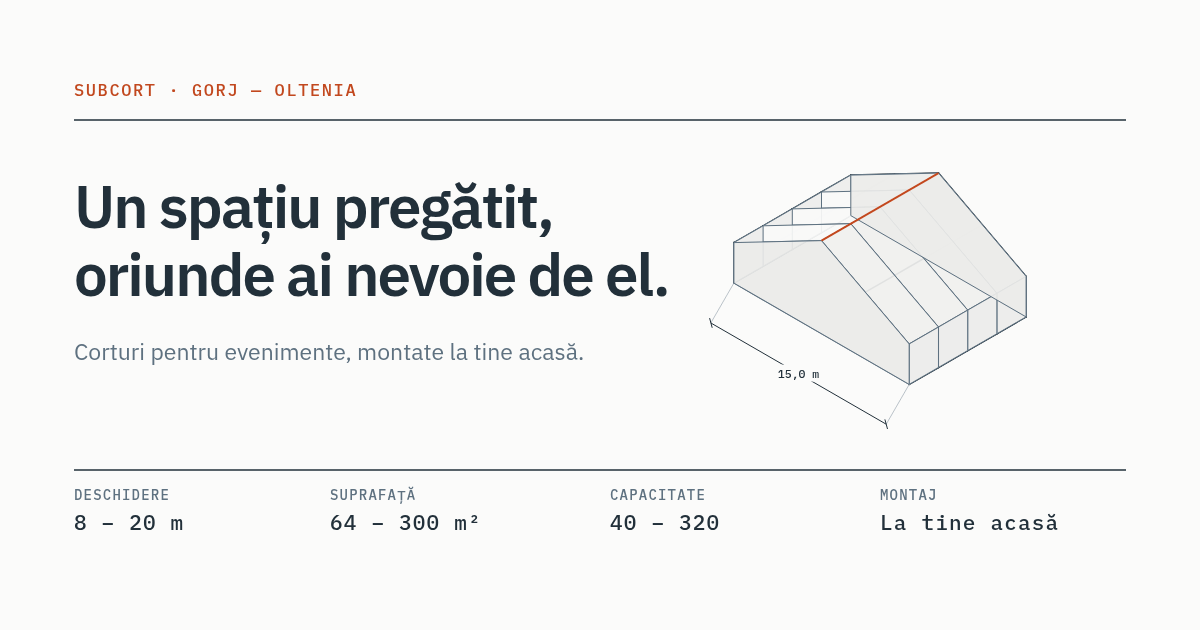
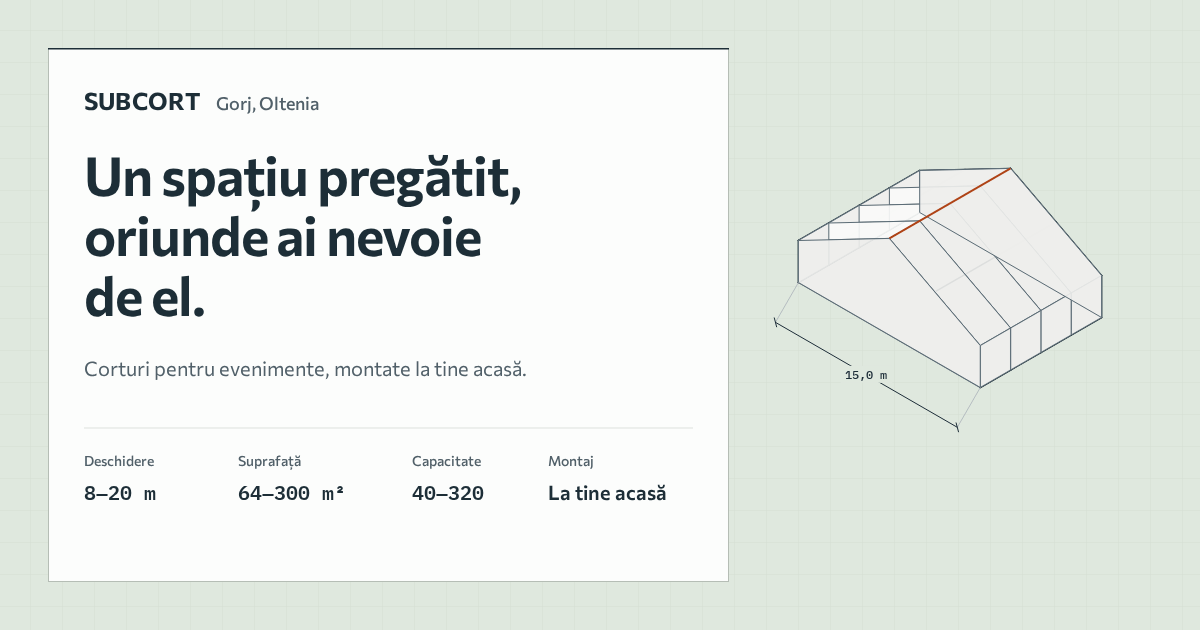
subcort: legal layout on a panel, the OG card regenerated on the new tokens

diff --git a/sites/subcort/scripts/og-card.html b/sites/subcort/scripts/og-card.html
@@ -4,44 +4,59 @@
   SOURCE for public/images/og-image.png. To regenerate: npm run subcort:og
 -->
 <style>
-@font-face{font-family:"IBM Plex Sans";src:url("../../../node_modules/@fontsource-variable/ibm-plex-sans/files/ibm-plex-sans-latin-ext-wght-normal.woff2") format("woff2-variations");font-weight:100 700;unicode-range:U+0100-02BA,U+02BD-02C5,U+02C7-02CC,U+02CE-02D7,U+02DD-02FF,U+0304,U+0308,U+0329,U+1D00-1DBF,U+1E00-1E9F,U+1EF2-1EFF,U+2020,U+20A0-20AB,U+20AD-20C0,U+2113,U+2C60-2C7F,U+A720-A7FF;}
-@font-face{font-family:"IBM Plex Sans";src:url("../../../node_modules/@fontsource-variable/ibm-plex-sans/files/ibm-plex-sans-latin-wght-normal.woff2") format("woff2-variations");font-weight:100 700;}
+@font-face{font-family:"Commissioner Variable";src:url("../../../node_modules/@fontsource-variable/commissioner/files/commissioner-latin-ext-wght-normal.woff2") format("woff2-variations");font-weight:100 900;unicode-range:U+0100-02BA,U+02BD-02C5,U+02C7-02CC,U+02CE-02D7,U+02DD-02FF,U+0304,U+0308,U+0329,U+1D00-1DBF,U+1E00-1E9F,U+1EF2-1EFF,U+2020,U+20A0-20AB,U+20AD-20C0,U+2113,U+2C60-2C7F,U+A720-A7FF;}
+@font-face{font-family:"Commissioner Variable";src:url("../../../node_modules/@fontsource-variable/commissioner/files/commissioner-latin-wght-normal.woff2") format("woff2-variations");font-weight:100 900;}
 @font-face{font-family:"IBM Plex Mono";src:url("../../../node_modules/@fontsource/ibm-plex-mono/files/ibm-plex-mono-latin-ext-500-normal.woff2") format("woff2");font-weight:500;unicode-range:U+0100-02BA,U+02BD-02C5,U+02C7-02CC,U+02CE-02D7,U+02DD-02FF,U+0304,U+0308,U+0329,U+1D00-1DBF,U+1E00-1E9F,U+1EF2-1EFF,U+2020,U+20A0-20AB,U+20AD-20C0,U+2113,U+2C60-2C7F,U+A720-A7FF;}
 @font-face{font-family:"IBM Plex Mono";src:url("../../../node_modules/@fontsource/ibm-plex-mono/files/ibm-plex-mono-latin-500-normal.woff2") format("woff2");font-weight:500;}
+@font-face{font-family:"IBM Plex Mono";src:url("../../../node_modules/@fontsource/ibm-plex-mono/files/ibm-plex-mono-latin-ext-600-normal.woff2") format("woff2");font-weight:600;unicode-range:U+0100-02BA,U+02BD-02C5,U+02C7-02CC,U+02CE-02D7,U+02DD-02FF,U+0304,U+0308,U+0329,U+1D00-1DBF,U+1E00-1E9F,U+1EF2-1EFF,U+2020,U+20A0-20AB,U+20AD-20C0,U+2113,U+2C60-2C7F,U+A720-A7FF;}
+@font-face{font-family:"IBM Plex Mono";src:url("../../../node_modules/@fontsource/ibm-plex-mono/files/ibm-plex-mono-latin-600-normal.woff2") format("woff2");font-weight:600;}
 *{margin:0;padding:0}
 html,body{width:1200px;height:630px;overflow:hidden}
 svg{display:block}
 </style></head><body>
 <svg xmlns="http://www.w3.org/2000/svg" viewBox="0 0 1200 630" width="1200" height="630">
-  <rect width="1200" height="630" fill="#FBFBFA"/>
-  <g font-family="'IBM Plex Mono',monospace" font-size="17" font-weight="500" fill="#C2481E" letter-spacing="1.6">
-    <text x="74" y="96">SUBCORT · GORJ — OLTENIA</text>
+  <defs>
+    <pattern id="grid" width="32" height="32" patternUnits="userSpaceOnUse" x="-1" y="-1">
+      <path d="M32 0V32M0 32H32" fill="none" stroke="#d4ded3" stroke-width="1"/>
+    </pattern>
+  </defs>
+  <rect width="1200" height="630" fill="#dfe8de"/>
+  <rect width="1200" height="630" fill="url(#grid)"/>
+  <polygon points="919.7,212.5 1101.6,317.5 980.3,387.5 798.4,282.5" fill="#eceff1" stroke="#5b6c76" stroke-width="1.1"/><line x1="919.7" y1="212.5" x2="919.7" y2="170.5" stroke="#1d2e37" stroke-width="1.5" stroke-linecap="round"/><line x1="1101.6" y1="317.5" x2="1101.6" y2="275.5" stroke="#1d2e37" stroke-width="1.5" stroke-linecap="round"/><line x1="919.7" y1="170.5" x2="1010.6" y2="168.4" stroke="#1d2e37" stroke-width="1.5" stroke-linecap="round"/><line x1="1101.6" y1="275.5" x2="1010.6" y2="168.4" stroke="#1d2e37" stroke-width="1.5" stroke-linecap="round"/><line x1="889.4" y1="230.0" x2="889.4" y2="188.0" stroke="#1d2e37" stroke-width="1.5" stroke-linecap="round"/><line x1="1071.2" y1="335.0" x2="1071.2" y2="293.0" stroke="#1d2e37" stroke-width="1.5" stroke-linecap="round"/><line x1="889.4" y1="188.0" x2="980.3" y2="185.9" stroke="#1d2e37" stroke-width="1.5" stroke-linecap="round"/><line x1="1071.2" y1="293.0" x2="980.3" y2="185.9" stroke="#1d2e37" stroke-width="1.5" stroke-linecap="round"/><line x1="859.1" y1="247.5" x2="859.1" y2="205.5" stroke="#1d2e37" stroke-width="1.5" stroke-linecap="round"/><line x1="1040.9" y1="352.5" x2="1040.9" y2="310.5" stroke="#1d2e37" stroke-width="1.5" stroke-linecap="round"/><line x1="859.1" y1="205.5" x2="950.0" y2="203.4" stroke="#1d2e37" stroke-width="1.5" stroke-linecap="round"/><line x1="1040.9" y1="310.5" x2="950.0" y2="203.4" stroke="#1d2e37" stroke-width="1.5" stroke-linecap="round"/><line x1="828.8" y1="265.0" x2="828.8" y2="223.0" stroke="#1d2e37" stroke-width="1.5" stroke-linecap="round"/><line x1="1010.6" y1="370.0" x2="1010.6" y2="328.0" stroke="#1d2e37" stroke-width="1.5" stroke-linecap="round"/><line x1="828.8" y1="223.0" x2="919.7" y2="220.9" stroke="#1d2e37" stroke-width="1.5" stroke-linecap="round"/><line x1="1010.6" y1="328.0" x2="919.7" y2="220.9" stroke="#1d2e37" stroke-width="1.5" stroke-linecap="round"/><line x1="798.4" y1="282.5" x2="798.4" y2="240.5" stroke="#1d2e37" stroke-width="1.5" stroke-linecap="round"/><line x1="980.3" y1="387.5" x2="980.3" y2="345.5" stroke="#1d2e37" stroke-width="1.5" stroke-linecap="round"/><line x1="798.4" y1="240.5" x2="889.4" y2="238.4" stroke="#1d2e37" stroke-width="1.5" stroke-linecap="round"/><line x1="980.3" y1="345.5" x2="889.4" y2="238.4" stroke="#1d2e37" stroke-width="1.5" stroke-linecap="round"/><line x1="919.7" y1="212.5" x2="889.4" y2="230.0" stroke="#1d2e37" stroke-width="1.5" stroke-linecap="round"/><line x1="919.7" y1="170.5" x2="889.4" y2="188.0" stroke="#1d2e37" stroke-width="1.5" stroke-linecap="round"/><line x1="1010.6" y1="168.4" x2="980.3" y2="185.9" stroke="#1d2e37" stroke-width="1.5" stroke-linecap="round"/><line x1="1101.6" y1="275.5" x2="1071.2" y2="293.0" stroke="#1d2e37" stroke-width="1.5" stroke-linecap="round"/><line x1="1101.6" y1="317.5" x2="1071.2" y2="335.0" stroke="#1d2e37" stroke-width="1.5" stroke-linecap="round"/><line x1="965.2" y1="169.5" x2="934.8" y2="187.0" stroke="#1d2e37" stroke-width="1.5" stroke-linecap="round"/><line x1="1056.1" y1="221.9" x2="1025.8" y2="239.4" stroke="#1d2e37" stroke-width="1.5" stroke-linecap="round"/><line x1="889.4" y1="230.0" x2="859.1" y2="247.5" stroke="#1d2e37" stroke-width="1.5" stroke-linecap="round"/><line x1="889.4" y1="188.0" x2="859.1" y2="205.5" stroke="#1d2e37" stroke-width="1.5" stroke-linecap="round"/><line x1="980.3" y1="185.9" x2="950.0" y2="203.4" stroke="#1d2e37" stroke-width="1.5" stroke-linecap="round"/><line x1="1071.2" y1="293.0" x2="1040.9" y2="310.5" stroke="#1d2e37" stroke-width="1.5" stroke-linecap="round"/><line x1="1071.2" y1="335.0" x2="1040.9" y2="352.5" stroke="#1d2e37" stroke-width="1.5" stroke-linecap="round"/><line x1="934.8" y1="187.0" x2="904.5" y2="204.4" stroke="#1d2e37" stroke-width="1.5" stroke-linecap="round"/><line x1="1025.8" y1="239.4" x2="995.5" y2="256.9" stroke="#1d2e37" stroke-width="1.5" stroke-linecap="round"/><line x1="859.1" y1="247.5" x2="828.8" y2="265.0" stroke="#1d2e37" stroke-width="1.5" stroke-linecap="round"/><line x1="859.1" y1="205.5" x2="828.8" y2="223.0" stroke="#1d2e37" stroke-width="1.5" stroke-linecap="round"/><line x1="950.0" y1="203.4" x2="919.7" y2="220.9" stroke="#1d2e37" stroke-width="1.5" stroke-linecap="round"/><line x1="1040.9" y1="310.5" x2="1010.6" y2="328.0" stroke="#1d2e37" stroke-width="1.5" stroke-linecap="round"/><line x1="1040.9" y1="352.5" x2="1010.6" y2="370.0" stroke="#1d2e37" stroke-width="1.5" stroke-linecap="round"/><line x1="904.5" y1="204.4" x2="874.2" y2="221.9" stroke="#1d2e37" stroke-width="1.5" stroke-linecap="round"/><line x1="995.5" y1="256.9" x2="965.2" y2="274.4" stroke="#1d2e37" stroke-width="1.5" stroke-linecap="round"/><line x1="828.8" y1="265.0" x2="798.4" y2="282.5" stroke="#1d2e37" stroke-width="1.5" stroke-linecap="round"/><line x1="828.8" y1="223.0" x2="798.4" y2="240.5" stroke="#1d2e37" stroke-width="1.5" stroke-linecap="round"/><line x1="919.7" y1="220.9" x2="889.4" y2="238.4" stroke="#1d2e37" stroke-width="1.5" stroke-linecap="round"/><line x1="1010.6" y1="328.0" x2="980.3" y2="345.5" stroke="#1d2e37" stroke-width="1.5" stroke-linecap="round"/><line x1="1010.6" y1="370.0" x2="980.3" y2="387.5" stroke="#1d2e37" stroke-width="1.5" stroke-linecap="round"/><line x1="874.2" y1="221.9" x2="843.9" y2="239.4" stroke="#1d2e37" stroke-width="1.5" stroke-linecap="round"/><line x1="965.2" y1="274.4" x2="934.8" y2="291.9" stroke="#1d2e37" stroke-width="1.5" stroke-linecap="round"/><polygon points="919.7,170.5 1010.6,168.4 980.3,185.9 889.4,188.0" fill="#fafaf8" fill-opacity="0.92" stroke="#5b6c76" stroke-width="1" stroke-linejoin="round"/><polygon points="1101.6,275.5 1010.6,168.4 980.3,185.9 1071.2,293.0" fill="#eeeeec" fill-opacity="0.92" stroke="#5b6c76" stroke-width="1" stroke-linejoin="round"/><polygon points="919.7,212.5 919.7,170.5 889.4,188.0 889.4,230.0" fill="#eeeeec" fill-opacity="0.92" stroke="#5b6c76" stroke-width="1" stroke-linejoin="round"/><polygon points="1101.6,317.5 1101.6,275.5 1071.2,293.0 1071.2,335.0" fill="#eeeeec" fill-opacity="0.92" stroke="#5b6c76" stroke-width="1" stroke-linejoin="round"/><polygon points="889.4,188.0 980.3,185.9 950.0,203.4 859.1,205.5" fill="#fafaf8" fill-opacity="0.92" stroke="#5b6c76" stroke-width="1" stroke-linejoin="round"/><polygon points="1071.2,293.0 980.3,185.9 950.0,203.4 1040.9,310.5" fill="#eeeeec" fill-opacity="0.92" stroke="#5b6c76" stroke-width="1" stroke-linejoin="round"/><polygon points="889.4,230.0 889.4,188.0 859.1,205.5 859.1,247.5" fill="#eeeeec" fill-opacity="0.92" stroke="#5b6c76" stroke-width="1" stroke-linejoin="round"/><polygon points="1071.2,335.0 1071.2,293.0 1040.9,310.5 1040.9,352.5" fill="#eeeeec" fill-opacity="0.92" stroke="#5b6c76" stroke-width="1" stroke-linejoin="round"/><polygon points="859.1,205.5 950.0,203.4 919.7,220.9 828.8,223.0" fill="#fafaf8" fill-opacity="0.92" stroke="#5b6c76" stroke-width="1" stroke-linejoin="round"/><polygon points="1040.9,310.5 950.0,203.4 919.7,220.9 1010.6,328.0" fill="#eeeeec" fill-opacity="0.92" stroke="#5b6c76" stroke-width="1" stroke-linejoin="round"/><polygon points="859.1,247.5 859.1,205.5 828.8,223.0 828.8,265.0" fill="#eeeeec" fill-opacity="0.92" stroke="#5b6c76" stroke-width="1" stroke-linejoin="round"/><polygon points="1040.9,352.5 1040.9,310.5 1010.6,328.0 1010.6,370.0" fill="#eeeeec" fill-opacity="0.92" stroke="#5b6c76" stroke-width="1" stroke-linejoin="round"/><polygon points="828.8,223.0 919.7,220.9 889.4,238.4 798.4,240.5" fill="#fafaf8" fill-opacity="0.92" stroke="#5b6c76" stroke-width="1" stroke-linejoin="round"/><polygon points="1010.6,328.0 919.7,220.9 889.4,238.4 980.3,345.5" fill="#eeeeec" fill-opacity="0.92" stroke="#5b6c76" stroke-width="1" stroke-linejoin="round"/><polygon points="828.8,265.0 828.8,223.0 798.4,240.5 798.4,282.5" fill="#eeeeec" fill-opacity="0.92" stroke="#5b6c76" stroke-width="1" stroke-linejoin="round"/><polygon points="1010.6,370.0 1010.6,328.0 980.3,345.5 980.3,387.5" fill="#eeeeec" fill-opacity="0.92" stroke="#5b6c76" stroke-width="1" stroke-linejoin="round"/><polygon points="919.7,212.5 919.7,170.5 1010.6,168.4 1101.6,275.5 1101.6,317.5" fill="#eeeeec" fill-opacity="0.92" stroke="#5b6c76" stroke-width="1" stroke-linejoin="round"/><polygon points="798.4,282.5 798.4,240.5 889.4,238.4 980.3,345.5 980.3,387.5" fill="#eeeeec" fill-opacity="0.92" stroke="#5b6c76" stroke-width="1" stroke-linejoin="round"/><line x1="1010.6" y1="168.4" x2="889.4" y2="238.4" stroke="#af4316" stroke-width="1.8"/><g>
+    <line x1="798.445555" y1="282.5" x2="775.4455549246194" y2="322.33716853056313" stroke="#a7b3ba" stroke-width=".8"/>
+    <line x1="980.310889" y1="387.5" x2="957.3108889246193" y2="427.33716853056313" stroke="#a7b3ba" stroke-width=".8"/>
+    <line x1="775.4" y1="322.3" x2="957.3" y2="427.3" stroke="#1d2e37" stroke-width="1"/>
+    <line x1="774.2" y1="317.5"
+           x2="776.7" y2="327.2"
+           stroke="#1d2e37" stroke-width="1"/><line x1="956.0" y1="422.5"
+           x2="958.6" y2="432.2"
+           stroke="#1d2e37" stroke-width="1"/>
+    <rect x="840.3782219246193" y="365.83716853056313" width="52" height="17" fill="#dfe8de"/>
+    <text x="866.3782219246193" y="378.83716853056313" text-anchor="middle"
+      font-family="'IBM Plex Mono',monospace" font-size="11.5" font-weight="500" fill="#1d2e37">15,0 m</text>
   </g>
-  <line x1="74" y1="120" x2="1126" y2="120" stroke="#22303A" stroke-width="1.5"/>
-  <polygon points="850.8,215.6 1026.1,316.9 909.2,384.4 733.9,283.1" fill="#EDEFF1" stroke="#5E7180" stroke-width="1.1"/><line x1="850.8" y1="215.6" x2="850.8" y2="175.1" stroke="#22303A" stroke-width="1.5" stroke-linecap="round"/><line x1="1026.1" y1="316.9" x2="1026.1" y2="276.4" stroke="#22303A" stroke-width="1.5" stroke-linecap="round"/><line x1="850.8" y1="175.1" x2="938.5" y2="173.1" stroke="#22303A" stroke-width="1.5" stroke-linecap="round"/><line x1="1026.1" y1="276.4" x2="938.5" y2="173.1" stroke="#22303A" stroke-width="1.5" stroke-linecap="round"/><line x1="821.5" y1="232.5" x2="821.5" y2="192.0" stroke="#22303A" stroke-width="1.5" stroke-linecap="round"/><line x1="996.9" y1="333.8" x2="996.9" y2="293.3" stroke="#22303A" stroke-width="1.5" stroke-linecap="round"/><line x1="821.5" y1="192.0" x2="909.2" y2="190.0" stroke="#22303A" stroke-width="1.5" stroke-linecap="round"/><line x1="996.9" y1="293.3" x2="909.2" y2="190.0" stroke="#22303A" stroke-width="1.5" stroke-linecap="round"/><line x1="792.3" y1="249.4" x2="792.3" y2="208.9" stroke="#22303A" stroke-width="1.5" stroke-linecap="round"/><line x1="967.7" y1="350.6" x2="967.7" y2="310.1" stroke="#22303A" stroke-width="1.5" stroke-linecap="round"/><line x1="792.3" y1="208.9" x2="880.0" y2="206.8" stroke="#22303A" stroke-width="1.5" stroke-linecap="round"/><line x1="967.7" y1="310.1" x2="880.0" y2="206.8" stroke="#22303A" stroke-width="1.5" stroke-linecap="round"/><line x1="763.1" y1="266.3" x2="763.1" y2="225.8" stroke="#22303A" stroke-width="1.5" stroke-linecap="round"/><line x1="938.5" y1="367.5" x2="938.5" y2="327.0" stroke="#22303A" stroke-width="1.5" stroke-linecap="round"/><line x1="763.1" y1="225.8" x2="850.8" y2="223.7" stroke="#22303A" stroke-width="1.5" stroke-linecap="round"/><line x1="938.5" y1="327.0" x2="850.8" y2="223.7" stroke="#22303A" stroke-width="1.5" stroke-linecap="round"/><line x1="733.9" y1="283.1" x2="733.9" y2="242.6" stroke="#22303A" stroke-width="1.5" stroke-linecap="round"/><line x1="909.2" y1="384.4" x2="909.2" y2="343.9" stroke="#22303A" stroke-width="1.5" stroke-linecap="round"/><line x1="733.9" y1="242.6" x2="821.5" y2="240.6" stroke="#22303A" stroke-width="1.5" stroke-linecap="round"/><line x1="909.2" y1="343.9" x2="821.5" y2="240.6" stroke="#22303A" stroke-width="1.5" stroke-linecap="round"/><line x1="850.8" y1="215.6" x2="821.5" y2="232.5" stroke="#22303A" stroke-width="1.5" stroke-linecap="round"/><line x1="850.8" y1="175.1" x2="821.5" y2="192.0" stroke="#22303A" stroke-width="1.5" stroke-linecap="round"/><line x1="938.5" y1="173.1" x2="909.2" y2="190.0" stroke="#22303A" stroke-width="1.5" stroke-linecap="round"/><line x1="1026.1" y1="276.4" x2="996.9" y2="293.3" stroke="#22303A" stroke-width="1.5" stroke-linecap="round"/><line x1="1026.1" y1="316.9" x2="996.9" y2="333.8" stroke="#22303A" stroke-width="1.5" stroke-linecap="round"/><line x1="894.6" y1="174.1" x2="865.4" y2="191.0" stroke="#22303A" stroke-width="1.5" stroke-linecap="round"/><line x1="982.3" y1="224.7" x2="953.1" y2="241.6" stroke="#22303A" stroke-width="1.5" stroke-linecap="round"/><line x1="821.5" y1="232.5" x2="792.3" y2="249.4" stroke="#22303A" stroke-width="1.5" stroke-linecap="round"/><line x1="821.5" y1="192.0" x2="792.3" y2="208.9" stroke="#22303A" stroke-width="1.5" stroke-linecap="round"/><line x1="909.2" y1="190.0" x2="880.0" y2="206.8" stroke="#22303A" stroke-width="1.5" stroke-linecap="round"/><line x1="996.9" y1="293.3" x2="967.7" y2="310.1" stroke="#22303A" stroke-width="1.5" stroke-linecap="round"/><line x1="996.9" y1="333.8" x2="967.7" y2="350.6" stroke="#22303A" stroke-width="1.5" stroke-linecap="round"/><line x1="865.4" y1="191.0" x2="836.2" y2="207.9" stroke="#22303A" stroke-width="1.5" stroke-linecap="round"/><line x1="953.1" y1="241.6" x2="923.8" y2="258.5" stroke="#22303A" stroke-width="1.5" stroke-linecap="round"/><line x1="792.3" y1="249.4" x2="763.1" y2="266.3" stroke="#22303A" stroke-width="1.5" stroke-linecap="round"/><line x1="792.3" y1="208.9" x2="763.1" y2="225.8" stroke="#22303A" stroke-width="1.5" stroke-linecap="round"/><line x1="880.0" y1="206.8" x2="850.8" y2="223.7" stroke="#22303A" stroke-width="1.5" stroke-linecap="round"/><line x1="967.7" y1="310.1" x2="938.5" y2="327.0" stroke="#22303A" stroke-width="1.5" stroke-linecap="round"/><line x1="967.7" y1="350.6" x2="938.5" y2="367.5" stroke="#22303A" stroke-width="1.5" stroke-linecap="round"/><line x1="836.2" y1="207.9" x2="806.9" y2="224.7" stroke="#22303A" stroke-width="1.5" stroke-linecap="round"/><line x1="923.8" y1="258.5" x2="894.6" y2="275.4" stroke="#22303A" stroke-width="1.5" stroke-linecap="round"/><line x1="763.1" y1="266.3" x2="733.9" y2="283.1" stroke="#22303A" stroke-width="1.5" stroke-linecap="round"/><line x1="763.1" y1="225.8" x2="733.9" y2="242.6" stroke="#22303A" stroke-width="1.5" stroke-linecap="round"/><line x1="850.8" y1="223.7" x2="821.5" y2="240.6" stroke="#22303A" stroke-width="1.5" stroke-linecap="round"/><line x1="938.5" y1="327.0" x2="909.2" y2="343.9" stroke="#22303A" stroke-width="1.5" stroke-linecap="round"/><line x1="938.5" y1="367.5" x2="909.2" y2="384.4" stroke="#22303A" stroke-width="1.5" stroke-linecap="round"/><line x1="806.9" y1="224.7" x2="777.7" y2="241.6" stroke="#22303A" stroke-width="1.5" stroke-linecap="round"/><line x1="894.6" y1="275.4" x2="865.4" y2="292.2" stroke="#22303A" stroke-width="1.5" stroke-linecap="round"/><polygon points="850.8,175.1 938.5,173.1 909.2,190.0 821.5,192.0" fill="rgb(250,250,248)" fill-opacity="0.92" stroke="#5E7180" stroke-width="1" stroke-linejoin="round"/><polygon points="1026.1,276.4 938.5,173.1 909.2,190.0 996.9,293.3" fill="rgb(241,241,239)" fill-opacity="0.92" stroke="#5E7180" stroke-width="1" stroke-linejoin="round"/><polygon points="850.8,215.6 850.8,175.1 821.5,192.0 821.5,232.5" fill="rgb(237,237,235)" fill-opacity="0.92" stroke="#5E7180" stroke-width="1" stroke-linejoin="round"/><polygon points="1026.1,316.9 1026.1,276.4 996.9,293.3 996.9,333.8" fill="rgb(237,237,235)" fill-opacity="0.92" stroke="#5E7180" stroke-width="1" stroke-linejoin="round"/><polygon points="821.5,192.0 909.2,190.0 880.0,206.8 792.3,208.9" fill="rgb(250,250,248)" fill-opacity="0.92" stroke="#5E7180" stroke-width="1" stroke-linejoin="round"/><polygon points="996.9,293.3 909.2,190.0 880.0,206.8 967.7,310.1" fill="rgb(241,241,239)" fill-opacity="0.92" stroke="#5E7180" stroke-width="1" stroke-linejoin="round"/><polygon points="821.5,232.5 821.5,192.0 792.3,208.9 792.3,249.4" fill="rgb(237,237,235)" fill-opacity="0.92" stroke="#5E7180" stroke-width="1" stroke-linejoin="round"/><polygon points="996.9,333.8 996.9,293.3 967.7,310.1 967.7,350.6" fill="rgb(237,237,235)" fill-opacity="0.92" stroke="#5E7180" stroke-width="1" stroke-linejoin="round"/><polygon points="792.3,208.9 880.0,206.8 850.8,223.7 763.1,225.8" fill="rgb(250,250,248)" fill-opacity="0.92" stroke="#5E7180" stroke-width="1" stroke-linejoin="round"/><polygon points="967.7,310.1 880.0,206.8 850.8,223.7 938.5,327.0" fill="rgb(241,241,239)" fill-opacity="0.92" stroke="#5E7180" stroke-width="1" stroke-linejoin="round"/><polygon points="792.3,249.4 792.3,208.9 763.1,225.8 763.1,266.3" fill="rgb(237,237,235)" fill-opacity="0.92" stroke="#5E7180" stroke-width="1" stroke-linejoin="round"/><polygon points="967.7,350.6 967.7,310.1 938.5,327.0 938.5,367.5" fill="rgb(237,237,235)" fill-opacity="0.92" stroke="#5E7180" stroke-width="1" stroke-linejoin="round"/><polygon points="763.1,225.8 850.8,223.7 821.5,240.6 733.9,242.6" fill="rgb(250,250,248)" fill-opacity="0.92" stroke="#5E7180" stroke-width="1" stroke-linejoin="round"/><polygon points="938.5,327.0 850.8,223.7 821.5,240.6 909.2,343.9" fill="rgb(241,241,239)" fill-opacity="0.92" stroke="#5E7180" stroke-width="1" stroke-linejoin="round"/><polygon points="763.1,266.3 763.1,225.8 733.9,242.6 733.9,283.1" fill="rgb(237,237,235)" fill-opacity="0.92" stroke="#5E7180" stroke-width="1" stroke-linejoin="round"/><polygon points="938.5,367.5 938.5,327.0 909.2,343.9 909.2,384.4" fill="rgb(237,237,235)" fill-opacity="0.92" stroke="#5E7180" stroke-width="1" stroke-linejoin="round"/><polygon points="850.8,215.6 850.8,175.1 938.5,173.1 1026.1,276.4 1026.1,316.9" fill="rgb(235,235,233)" fill-opacity="0.92" stroke="#5E7180" stroke-width="1" stroke-linejoin="round"/><polygon points="733.9,283.1 733.9,242.6 821.5,240.6 909.2,343.9 909.2,384.4" fill="rgb(235,235,233)" fill-opacity="0.92" stroke="#5E7180" stroke-width="1" stroke-linejoin="round"/><line x1="938.5" y1="173.1" x2="821.5" y2="240.6" stroke="#C2481E" stroke-width="1.8"/><g>
-    <line x1="733.85821375" y1="283.125" x2="710.8582136746194" y2="322.96216853056313" stroke="#A7B4BE" stroke-width=".8"/>
-    <line x1="909.22835725" y1="384.375" x2="886.2283571746194" y2="424.21216853056313" stroke="#A7B4BE" stroke-width=".8"/>
-    <line x1="710.9" y1="323.0" x2="886.2" y2="424.2" stroke="#22303A" stroke-width="1"/>
-    <line x1="709.6" y1="318.1"
-           x2="712.2" y2="327.8"
-           stroke="#22303A" stroke-width="1"/><line x1="884.9" y1="419.4"
-           x2="887.5" y2="429.0"
-           stroke="#22303A" stroke-width="1"/>
-    <rect x="772.5432854246194" y="364.58716853056313" width="52" height="17" fill="#FBFBFA"/>
-    <text x="798.5432854246194" y="377.58716853056313" text-anchor="middle"
-      font-family="'IBM Plex Mono',monospace" font-size="11.5" font-weight="500" fill="#22303A">15,0 m</text>
+  <rect x="48.5" y="48.5" width="680" height="533" fill="#fcfdfc" stroke="#b5bdb5" stroke-width="1"/>
+  <line x1="48" y1="48.75" x2="729" y2="48.75" stroke="#1d2e37" stroke-width="1.5"/>
+  <g font-family="'Commissioner Variable',system-ui,sans-serif" fill="#1d2e37">
+    <text x="84" y="110" font-size="24" font-weight="700" letter-spacing="0.24">SUBCORT</text>
+    <text x="216" y="110" font-size="18" font-weight="500" fill="#516069">Gorj, Oltenia</text>
+    <text x="84" y="196" font-size="54" font-weight="650" letter-spacing="-1.08">Un spațiu pregătit,</text>
+    <text x="84" y="256" font-size="54" font-weight="650" letter-spacing="-1.08">oriunde ai nevoie</text>
+    <text x="84" y="316" font-size="54" font-weight="650" letter-spacing="-1.08">de el.</text>
+    <text x="84" y="376" font-size="20" font-weight="400" fill="#516069">Corturi pentru evenimente, montate la tine acasă.</text>
   </g>
-  <g font-family="'IBM Plex Sans',system-ui,sans-serif" fill="#22303A">
-    <text x="74" y="228" font-size="60" font-weight="600" letter-spacing="-2">Un spațiu pregătit,</text>
-    <text x="74" y="296" font-size="60" font-weight="600" letter-spacing="-2">oriunde ai nevoie de el.</text>
-    <text x="74" y="360" font-size="23" font-weight="400" fill="#5E7180">Corturi pentru evenimente, montate la tine acasă.</text>
+  <line x1="84" y1="428" x2="693" y2="428" stroke="#dde1dd" stroke-width="1"/>
+  <g font-family="'Commissioner Variable',system-ui,sans-serif" font-size="14" font-weight="500" fill="#516069">
+    <text x="84" y="466">Deschidere</text>
+    <text x="238" y="466">Suprafață</text>
+    <text x="412" y="466">Capacitate</text>
+    <text x="548" y="466">Montaj</text>
   </g>
-  <line x1="74" y1="470" x2="1126" y2="470" stroke="#22303A" stroke-width="1.5"/>
-  <g font-family="'IBM Plex Mono',monospace" font-size="14" font-weight="500" fill="#5E7180" letter-spacing="1.2">
-    <text x="74" y="500">DESCHIDERE</text><text x="74" y="530" font-size="21" fill="#22303A">8 – 20 m</text>
-    <text x="330" y="500">SUPRAFAȚĂ</text><text x="330" y="530" font-size="21" fill="#22303A">64 – 300 m²</text>
-    <text x="610" y="500">CAPACITATE</text><text x="610" y="530" font-size="21" fill="#22303A">40 – 320</text>
-    <text x="880" y="500">MONTAJ</text><text x="880" y="530" font-size="21" fill="#22303A">La tine acasă</text>
+  <g font-family="'IBM Plex Mono',monospace" font-size="20" font-weight="600" fill="#1d2e37">
+    <text x="84" y="500">8‒20 m</text>
+    <text x="238" y="500">64‒300 m²</text>
+    <text x="412" y="500">40‒320</text>
   </g>
+  <text x="548" y="500" font-family="'Commissioner Variable',system-ui,sans-serif" font-size="20" font-weight="600" fill="#1d2e37">La tine acasă</text>
 </svg>
 </body></html>

diff --git a/sites/subcort/src/lib/draft.ts b/sites/subcort/src/lib/draft.ts
@@ -256,7 +256,7 @@ export function dimension(
   from: [number, number],
   to: [number, number],
   label: string,
-  { offset = 0, flip = false }: { offset?: number; flip?: boolean } = {},
+  { offset = 0, flip = false, bg = SHEET }: { offset?: number; flip?: boolean; bg?: string } = {},
 ): string {
   const [x1, y1] = from;
   const [x2, y2] = to;
@@ -279,7 +279,7 @@ export function dimension(
     <line x1="${x2}" y1="${y2}" x2="${bx}" y2="${by}" stroke="${LINE_SOFT}" stroke-width=".8"/>
     <line x1="${ax.toFixed(1)}" y1="${ay.toFixed(1)}" x2="${bx.toFixed(1)}" y2="${by.toFixed(1)}" stroke="${INK}" stroke-width="1"/>
     ${tick(ax, ay)}${tick(bx, by)}
-    <rect x="${mx - 26}" y="${my - (flip ? 20 : 9)}" width="52" height="17" fill="${SHEET}"/>
+    <rect x="${mx - 26}" y="${my - (flip ? 20 : 9)}" width="52" height="17" fill="${bg}"/>
     <text x="${mx}" y="${my + (flip ? -8 : 4)}" text-anchor="middle"
       font-family="'IBM Plex Mono',monospace" font-size="11.5" font-weight="500" fill="${INK}">${label}</text>
   </g>`;
